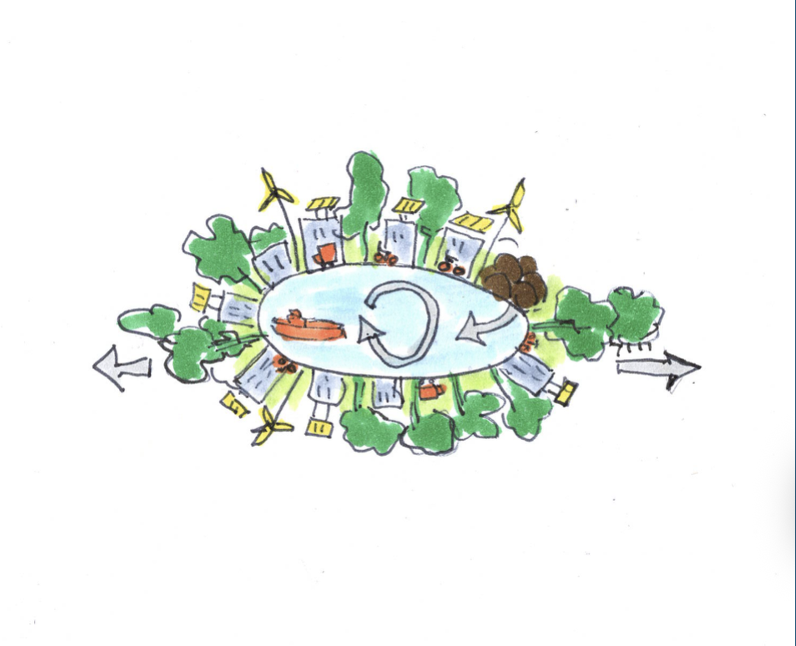
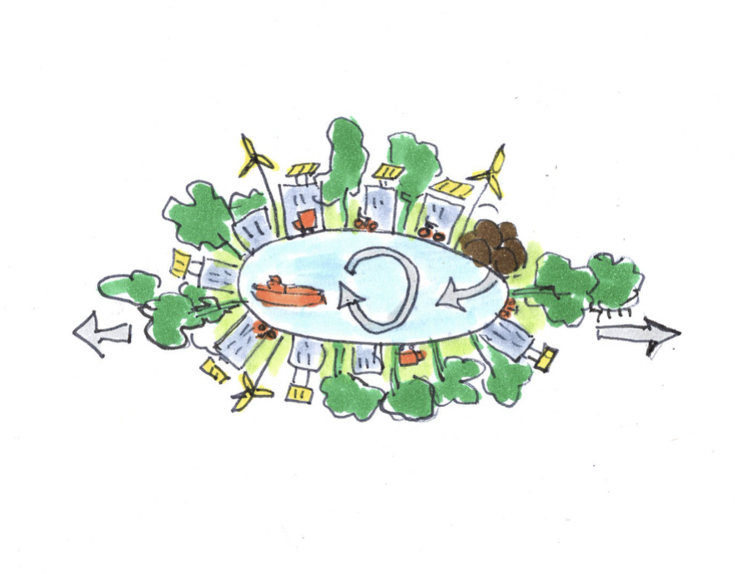
content: update Zoë's role + clean regeneratief illustration
- Zoë Red role (NL + EN) updated to:
  NL 'Groeistrateeg, communicatieadviseur, impact investor & netwerk bouwer.'
  EN 'Growth strategist, communications advisor, impact investor & network builder.'
- Replace regeneratief.png with the clean version from the marketing
  assets folder (removes the stray pen line to the right of the drawing)

Changed region(s): [[0.0898, 0.2073, 0.9279, 0.7404], [0.9878, 0.0, 1.0, 1.0]]

diff --git a/src/content/team-members/en/zoe-red.md b/src/content/team-members/en/zoe-red.md
@@ -1,6 +1,6 @@
 ---
 name: "Zoë Red"
-role: "Communication strategist, climate guru, impact investor & network builder."
+role: "Growth strategist, communications advisor, impact investor & network builder."
 quote: "\"From meta-thinking to doing tomorrow.\""
 image: "/assets/team/zoe.jpg"
 imageAlt: "Zoë Red"

diff --git a/src/content/team-members/nl/zoe-red.md b/src/content/team-members/nl/zoe-red.md
@@ -1,6 +1,6 @@
 ---
 name: "Zoë Red"
-role: "Communicatiestrateeg, klimaat-guru, impact investor & netwerkbouwer."
+role: "Groeistrateeg, communicatieadviseur, impact investor & netwerk bouwer."
 quote: "\"Van meta-denken tot morgen doen.\""
 image: "/assets/team/zoe.jpg"
 imageAlt: "Zoë Red"
